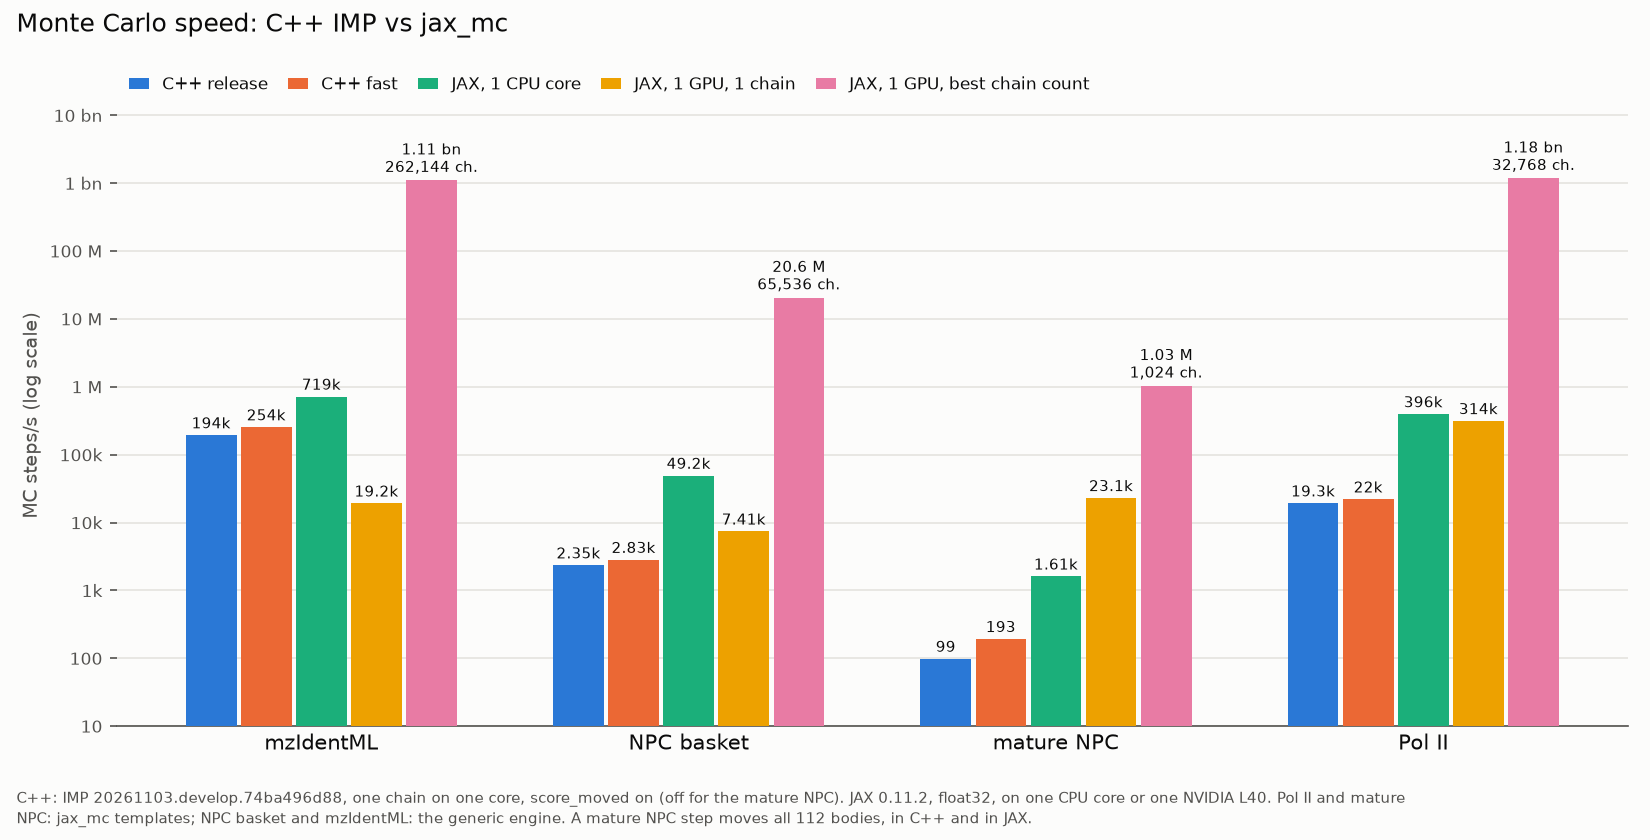
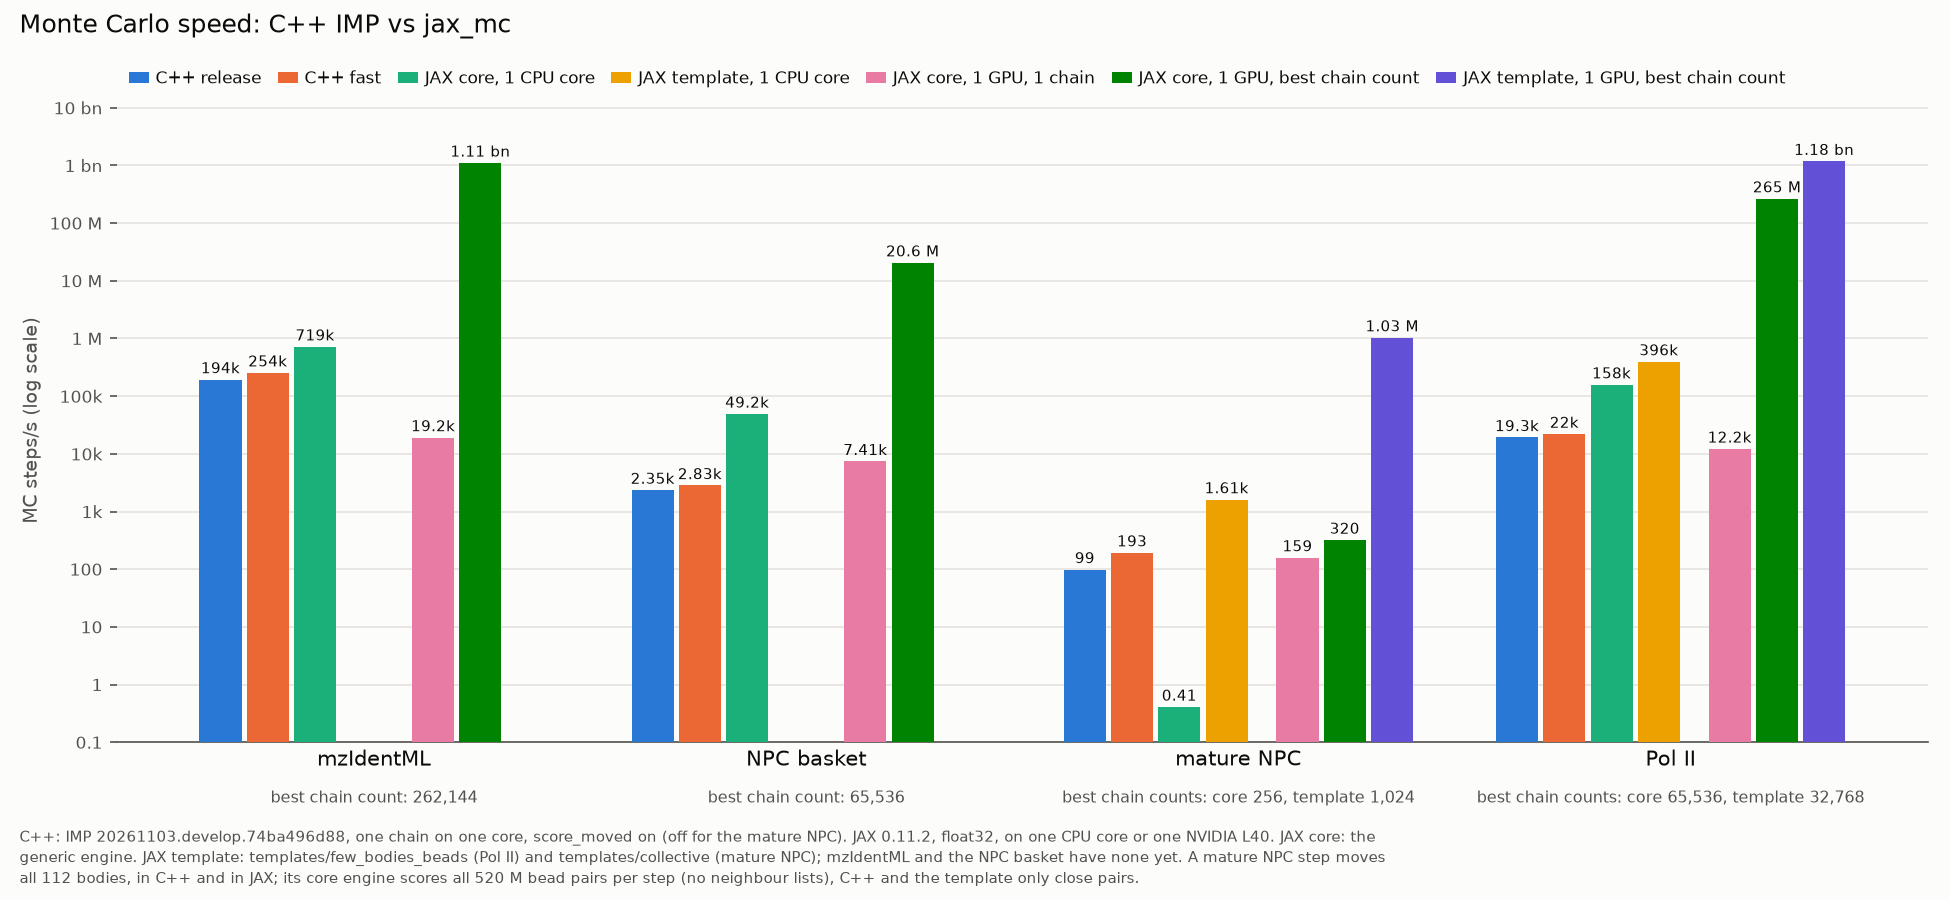
jax_mc: core and template bars in the speed plot
The JAX bars now separate the core engine from the templates, and each
group shows one CPU core first, then one GPU. One CPU core: C++ release
and fast, the core, the template. One L40: the core with one chain and
at its best chain count, the template at its best chain count. Pol II:
core 158k / 265 M, template 396k / 1.18 bn MC steps/s (CPU / GPU).
Mature NPC: core 0.41 / 320, template 1,612 / 1.03 M; its core
(CollectiveEngine) scores all 520 M bead pairs per step, so it is slower
than C++ (99) on one CPU core. mzIdentML and the NPC basket have no
template. one_vs_many jax --core; run.sh runs both. Chain counts move
under the system names, the legend is one row in bar order, values below
1 are labelled.

diff --git a/prototypes/jax_mc/perf/one_vs_many.py b/prototypes/jax_mc/perf/one_vs_many.py
@@ -5,7 +5,7 @@ pay off on one GPU.
   python -m perf.one_vs_many cpp SYSTEM [--steps N] [--reps 5] [--burn B]
       [--modes False,True]
   python -m perf.one_vs_many jax SYSTEM --chains C [--sweeps S] [--reps 5]
-      [--burn B]
+      [--burn B] [--core]
   python -m perf.one_vs_many plot results.jsonl OUTDIR
 
 Each measurement prints one line 'RESULT {json}' (perf/run.sh appends them
@@ -20,8 +20,10 @@ with a full rescore, and the plot uses the faster mode that stays exact.
 --burn runs that many steps untimed first, with score_moved off. Which IMP
 build runs (release or fast) is up to the environment.
 
-jax: the fastest jax_mc sampler for the system (SAMPLERS), float32, the
-protocol's kT. The state is donated between calls, as in production.
+jax: the system's template if it has one (SAMPLERS), else the core engine
+(engine.make: Engine, or CollectiveEngine for the mature NPC); --core takes
+the core engine anyway. float32, the protocol's kT. The state is donated
+between calls, as in production.
 --burn runs that many sweeps untimed first (the mature NPC's collective
 steps rebuild their neighbour lists constantly from the starting structure).
 
@@ -44,6 +46,14 @@ SAMPLERS = dict(polii='templates.few_bodies_beads.sampler:factory',
 NAMES = dict(mzid='mzIdentML', npc='NPC basket', pm='mature NPC',
              polii='Pol II')
 ORDER = ('mzid', 'npc', 'pm', 'polii')
+CPU1 = 'JAX core, 1 CPU core'
+GPU1 = 'JAX core, 1 GPU, 1 chain'
+CORE = 'JAX core, 1 GPU, best chain count'
+TCPU1 = 'JAX template, 1 CPU core'
+TEMPLATE = 'JAX template, 1 GPU, best chain count'
+BARS = ['C++ release', 'C++ fast', CPU1, TCPU1,      # one CPU core
+        GPU1, CORE, TEMPLATE]                       # one GPU
+BLOCKS = (4, 3)
 
 
 def result(d):
@@ -102,7 +112,8 @@ def jax_run(a):
     from jax_mc import check, engine, sources, system
     s = system.extract(sources.load(a.system))
     spec = SAMPLERS[a.system]
-    smp = check._factory(spec)(s) if spec else engine.make(s)
+    core = a.core or spec is None
+    smp = engine.make(s) if core else check._factory(spec)(s)
     n = smp.steps_per_sweep
     run = jax.jit(smp.run, static_argnums=(1, 2), donate_argnums=0)
     t0 = time.perf_counter()
@@ -122,6 +133,7 @@ def jax_run(a):
            / (a.chains * n * a.sweeps * a.reps))
     dev = jax.devices()[0]
     result(dict(kind='jax', system=a.system, sampler=type(smp).__name__,
+                core=core,
                 platform=dev.platform, device=dev.device_kind,
                 chains=a.chains, sweeps=a.sweeps, steps_per_sweep=n,
                 reps=a.reps, burn=a.burn, first_call_s=first,
@@ -149,27 +161,30 @@ def rows(path):
                        f'IMP {d["imp"]}; '
                        f'check level {d["check_level"]}')
         else:
-            cpu = d['platform'] == 'cpu'
-            key = (d['system'], 'cpu' if cpu else
-                   ('gpu1' if d['chains'] == 1 else f'gpu{d["chains"]}'))
-            cfg[key] = dict(
-                system=d['system'],
-                bar='JAX, 1 CPU core' if cpu else (
-                    'JAX, 1 GPU, 1 chain' if d['chains'] == 1
-                    else 'JAX, 1 GPU, best chain count'),
-                steps_per_s=d['steps_per_s'], chains=d['chains'],
+            core = d.get('core', SAMPLERS[d['system']] is None)
+            if d['platform'] == 'cpu':
+                key, bar = ('cpu', CPU1) if core else ('tcpu', TCPU1)
+            elif d['chains'] == 1:
+                if not core:                # the GPU one-chain bar: core
+                    continue
+                key, bar = 'gpu1', GPU1
+            else:
+                key = f'gpu{d["chains"]}' + ('core' if core else '')
+                bar = CORE if core else TEMPLATE
+            cfg[(d['system'], key)] = dict(
+                system=d['system'], bar=bar, steps_per_s=d['steps_per_s'],
+                chains=d['chains'],
                 detail=f'{d["sampler"]}; {d["device"]}; float32; '
                        f'acceptance {d["acceptance"]:.2g}')
     out = []
     for sysn in ORDER:
         mine = [v for k, v in cfg.items() if k[0] == sysn]
-        many = [v for v in mine if v['bar'] == 'JAX, 1 GPU, best chain count']
-        keep = [v for v in mine if v not in many]
-        if many:
-            keep.append(max(many, key=lambda v: v['steps_per_s']))
-        order = ['C++ release', 'C++ fast', 'JAX, 1 CPU core',
-                 'JAX, 1 GPU, 1 chain', 'JAX, 1 GPU, best chain count']
-        out += sorted(keep, key=lambda v: order.index(v['bar']))
+        keep = [v for v in mine if v['bar'] not in (CORE, TEMPLATE)]
+        for bar in (CORE, TEMPLATE):
+            many = [v for v in mine if v['bar'] == bar]
+            if many:
+                keep.append(max(many, key=lambda v: v['steps_per_s']))
+        out += sorted(keep, key=lambda v: BARS.index(v['bar']))
     return out
 
 
@@ -199,12 +214,25 @@ def plot(a):
     note = (f'C++: IMP {", ".join(imp)}, one chain on one core, score_moved '
             f'on' + (f' (off for the {", ".join(off)})' if off else '') +
             f'. JAX {", ".join(jx)}, float32, on one CPU core or one '
-            f'{", ".join(gpu)}. Pol II and mature NPC: jax_mc templates; NPC '
-            'basket and mzIdentML: the generic engine. A mature NPC step '
-            'moves all 112 bodies, in C++ and in JAX.')
+            f'{", ".join(gpu)}. JAX core: the generic engine. JAX template: '
+            'templates/few_bodies_beads (Pol II) and templates/collective '
+            '(mature NPC); mzIdentML and the NPC basket have none yet. A '
+            'mature NPC step moves all 112 bodies, in C++ and in JAX; its '
+            'core engine scores all 520 M bead pairs per step (no neighbour '
+            'lists), C++ and the template only close pairs.')
+    sub = {}
+    for sysn in ORDER:
+        best = {r['bar']: r['chains'] for r in R
+                if r['system'] == sysn and r['bar'] in (CORE, TEMPLATE)}
+        if TEMPLATE in best:
+            sub[sysn] = (f'best chain counts: core {best[CORE]:,}, '
+                         f'template {best[TEMPLATE]:,}')
+        elif CORE in best:
+            sub[sysn] = f'best chain count: {best[CORE]:,}'
     from perf.figure import draw
-    draw(R, NAMES, ORDER, os.path.join(a.outdir, 'speed.png'),
-         title='Monte Carlo speed: C++ IMP vs jax_mc', note=note)
+    draw(R, NAMES, ORDER, BARS, os.path.join(a.outdir, 'speed.png'),
+         title='Monte Carlo speed: C++ IMP vs jax_mc', note=note, sub=sub,
+         blocks=BLOCKS)
 
 
 def main():
@@ -223,6 +251,8 @@ def main():
     j.add_argument('--sweeps', type=int, default=100)
     j.add_argument('--reps', type=int, default=5)
     j.add_argument('--burn', type=int, default=0)
+    j.add_argument('--core', action='store_true',
+                   help='the core engine even if the system has a template')
     p = sub.add_parser('plot')
     p.add_argument('results')
     p.add_argument('outdir')

diff --git a/prototypes/jax_mc/perf/figure.py b/prototypes/jax_mc/perf/figure.py
@@ -1,5 +1,5 @@
 """speed.png: grouped columns, one group per system, log scale (the bars
-span six orders of magnitude). Colors: the first five slots of a
+span six orders of magnitude). Colors: the first slots of a
 colorblind-checked categorical order, used in that order; values are
 labelled on every column, and speed.csv is the table view."""
 import math
@@ -9,10 +9,10 @@ import matplotlib
 matplotlib.use('Agg')
 import matplotlib.pyplot as plt  # noqa: E402
 from matplotlib.ticker import FuncFormatter, LogLocator  # noqa: E402
+from matplotlib.transforms import blended_transform_factory  # noqa: E402
 
-BARS = ['C++ release', 'C++ fast', 'JAX, 1 CPU core', 'JAX, 1 GPU, 1 chain',
-        'JAX, 1 GPU, best chain count']
-COLORS = ['#2a78d6', '#eb6834', '#1baf7a', '#eda100', '#e87ba4']
+COLORS = ['#2a78d6', '#eb6834', '#1baf7a', '#eda100', '#e87ba4', '#008300',
+          '#6250d6']
 SURFACE, INK, INK2, GRID = '#fcfcfb', '#0b0b0b', '#52514e', '#e4e3df'
 
 
@@ -21,28 +21,39 @@ def fmt(v):
         if v >= div:
             x = v / div
             return (f'{x:.3g}' if x < 100 else f'{x:.0f}') + unit
-    return f'{v:.0f}'
+    return f'{v:.0f}' if v >= 10 else f'{v:.2g}'
 
 
-def draw(rows, names, order, path, title=None, note=None):
+def draw(rows, names, order, bars, path, title=None, note=None, sub=None,
+         blocks=None):
+    """rows: dicts with system, bar, steps_per_s, chains; bars in order
+       (one color each, in that order); sub: system -> a line under its
+       name (the chain counts, which don't fit on the columns); blocks:
+       sizes of runs of bars set apart within a group (e.g. CPU, GPU)"""
     systems = [s for s in order if any(r['system'] == s for r in rows)]
-    fig, ax = plt.subplots(figsize=(11, 5.6), dpi=150)
+    fig, ax = plt.subplots(figsize=(13, 6), dpi=150)
     fig.patch.set_facecolor(SURFACE)
     ax.set_facecolor(SURFACE)
-    w, gap = 0.15, 0.012                 # column width, air between columns
-    for k, bar in enumerate(BARS):
+    blocks = blocks or (len(bars),)
+    assert sum(blocks) == len(bars)
+    sep = 0.5                            # extra space between blocks, in w
+    w = 0.82 / (len(bars) + sep * (len(blocks) - 1))
+    gap = 0.012                          # air between columns
+    off, k0 = [], 0
+    for j, b in enumerate(blocks):
+        off += [(k0 + i + sep * j) * w for i in range(b)]
+        k0 += b
+    off = [o - (off[0] + off[-1]) / 2 for o in off]
+    for k, bar in enumerate(bars):
         xs, ys, labels = [], [], []
         for i, s in enumerate(systems):
             r = [r for r in rows if r['system'] == s and r['bar'] == bar]
             if not r:
                 continue
             r = r[0]
-            xs.append(i + (k - 2) * w)
+            xs.append(i + off[k])
             ys.append(r['steps_per_s'])
-            lab = fmt(r['steps_per_s'])
-            if r['chains'] > 1:
-                lab += f'\n{r["chains"]:,} ch.'
-            labels.append(lab)
+            labels.append(fmt(r['steps_per_s']))
         ax.bar(xs, ys, width=w - gap, color=COLORS[k], label=bar, zorder=3)
         for x, y, lab in zip(xs, ys, labels):
             ax.text(x, y * 1.12, lab, ha='center', va='bottom', fontsize=7,
@@ -55,6 +66,11 @@ def draw(rows, names, order, path, title=None, note=None):
     ax.yaxis.set_major_formatter(FuncFormatter(lambda v, _: fmt(v)))
     ax.set_xticks(range(len(systems)))
     ax.set_xticklabels([names[s] for s in systems], fontsize=10, color=INK)
+    tr = blended_transform_factory(ax.transData, ax.transAxes)
+    for i, s in enumerate(systems):
+        if sub and s in sub:
+            ax.text(i, -0.075, sub[s], transform=tr, ha='center', va='top',
+                    fontsize=7.5, color=INK2)
     ax.set_ylabel('MC steps/s (log scale)', color=INK2, fontsize=9)
     ax.yaxis.set_minor_locator(LogLocator(base=10, subs=()))
     ax.tick_params(axis='y', colors=INK2, labelsize=8)
@@ -64,9 +80,11 @@ def draw(rows, names, order, path, title=None, note=None):
     for side in ('top', 'right', 'left'):
         ax.spines[side].set_visible(False)
     ax.spines['bottom'].set_color(INK2)
-    ax.legend(loc='lower left', ncol=5, frameon=False, fontsize=8,
-              labelcolor=INK, bbox_to_anchor=(0, 1.0), handlelength=1.2,
-              columnspacing=1.2, borderaxespad=0.3)
+    leg = ax.legend(loc='lower left', ncol=len(bars), frameon=False,
+                    fontsize=8, labelcolor=INK, bbox_to_anchor=(0, 1.0),
+                    handlelength=1.2, columnspacing=1.0, handletextpad=0.4,
+                    borderaxespad=0.3)
+    leg.set_in_layout(False)             # one row; keep the axes wide
     if title:
         fig.suptitle(title, x=0.01, ha='left', fontsize=12, color=INK, y=0.985)
     if note:
@@ -74,6 +92,6 @@ def draw(rows, names, order, path, title=None, note=None):
         fig.text(0.01, 0.012, note, ha='left', va='bottom', fontsize=7,
                  color=INK2, linespacing=1.4)
     fig.tight_layout(rect=(0, 0.075 if note else 0, 1, 0.95))
-    fig.subplots_adjust(top=0.875)       # legend right under the title
+    fig.subplots_adjust(top=0.89)        # legend right under the title
     fig.savefig(path, facecolor=SURFACE)
     plt.close(fig)

diff --git a/prototypes/jax_mc/perf/README.md b/prototypes/jax_mc/perf/README.md
@@ -1,6 +1,9 @@
 # Speed: C++ IMP against jax_mc
 
-`speed.png` and `speed.csv` compare, for each system jax_mc runs:
+`speed.png` and `speed.csv` compare, for each system jax_mc runs, first
+what one CPU core does (C++, the JAX core engine, the JAX template), then
+what one GPU does (the core engine with one chain and at its best chain
+count, the template at its best chain count):
 - **C++ release** and **C++ fast**: IMP's own `MonteCarlo` on the system's
   restraints and movers, one chain on one core, with the IMP nightly's
   release build (usage checks on) and fast build (checks compiled out). The
@@ -9,21 +12,32 @@
   timed with it off: every step there moves all 112 bodies, so on has
   nothing to skip; setup, one warm-up step and one timed step did not
   finish within 15 minutes).
-- **JAX, 1 CPU core**: jax_mc's fastest sampler for the system, one chain,
-  float32, single-threaded XLA.
-- **JAX, 1 GPU, 1 chain** and **best chain count**: the same sampler on one
-  GPU, with one chain and with the chain count that gave the most MC
-  steps/s (the counts tried are in `run.sh`).
+- **JAX core, 1 CPU core** and **JAX core, 1 GPU, 1 chain**: the core
+  engine alone (`jax_mc.engine.make`: `Engine`, or `CollectiveEngine` for
+  the mature NPC) with one chain, float32; on the CPU single-threaded XLA.
+- **JAX core, 1 GPU, best chain count**: the core engine at the chain
+  count that gave the most MC steps/s.
+- **JAX template, 1 CPU core** and **JAX template, 1 GPU, best chain
+  count**: the system's template, built on the core with its recipes:
+  `templates/few_bodies_beads` (Pol II, recipes R1-R7) and
+  `templates/collective` (mature NPC, its own neighbour lists, closed-form
+  overall position, EM pair tables and membrane candidates). mzIdentML and
+  the NPC basket have no template yet; their best is the core.
 
-The samplers: `templates/few_bodies_beads` (Pol II), `templates/collective`
-(mature NPC), and the generic engine (NPC basket, mzIdentML). The mature
-NPC's MC step moves all 112 bodies, in C++ and in JAX; it is timed after
-20,000 steps of burn-in in both.
+The chain counts tried are in `run.sh`. The mature NPC's MC step moves all
+112 bodies, in C++ and in JAX. Its C++ and template runs are timed after
+20,000 steps of burn-in: the template's neighbour lists rebuild constantly
+from the starting structure. Its core engine scores every pair of its 32,256
+beads at every step, so its speed doesn't depend on the state, and it runs
+without burn-in. That is also why it is slower than C++ on one CPU core
+(0.41 against 99 MC steps/s): C++ scores only close pairs, and so does the
+template, which does 1,612 on one CPU core.
 
-One GPU chain is slower than one CPU core for the generic engine: a lone
-chain leaves the GPU waiting on kernel launches. The GPU pays off with
-many chains. Pol II and the mature NPC lose speed past their best chain
-count (all counts are in `results.jsonl`).
+For mzIdentML, the NPC basket and Pol II, the core engine is slower with
+one chain on the GPU than on one CPU core: a lone chain leaves the GPU
+waiting on kernel launches. The GPU pays off with many
+chains. Pol II and the mature NPC lose speed past their best chain count
+(all counts are in `results.jsonl`).
 
 Reproduce (from `prototypes/jax_mc`, on a GPU node):
 

diff --git a/prototypes/jax_mc/DESIGN.md b/prototypes/jax_mc/DESIGN.md
@@ -700,4 +700,14 @@ builds, one chain on one core) against jax_mc on one CPU core and one L40,
 for all four systems; `perf/run.sh` remakes it. On the best GPU chain
 count: 1.11 bn (mzIdentML), 20.6 M (NPC basket), 1.03 M (mature NPC), 1.18
 bn (Pol II) MC steps/s, 5,700× to 61,000× C++ release. The generic engine
-with one chain is slower on the GPU than on one CPU core.
+with one chain is slower on the GPU than on one CPU core. The core engine
+alone, next to the template: Pol II 265 M vs 1.18 bn; mature NPC 320 vs
+1.03 M (`CollectiveEngine` scores all 32,256 beads' pairs every step, so
+the template's neighbour lists are worth 3,000× there). The one-chain bars
+are the core's too: on one CPU core the mature NPC's core does 0.41 MC
+steps/s against C++'s 99 (all pairs against close pairs: 2.4 s of its 2.45 s
+per step is excluded volume). The templates on one CPU core: 1,612 (mature
+NPC) and 396k (Pol II, core 158k), so specializing pays on the CPU too.
+mzIdentML and the NPC basket run on the core only. Next for the core: a
+neighbour-list EV (from the collective template's R8) above some bead
+count.
